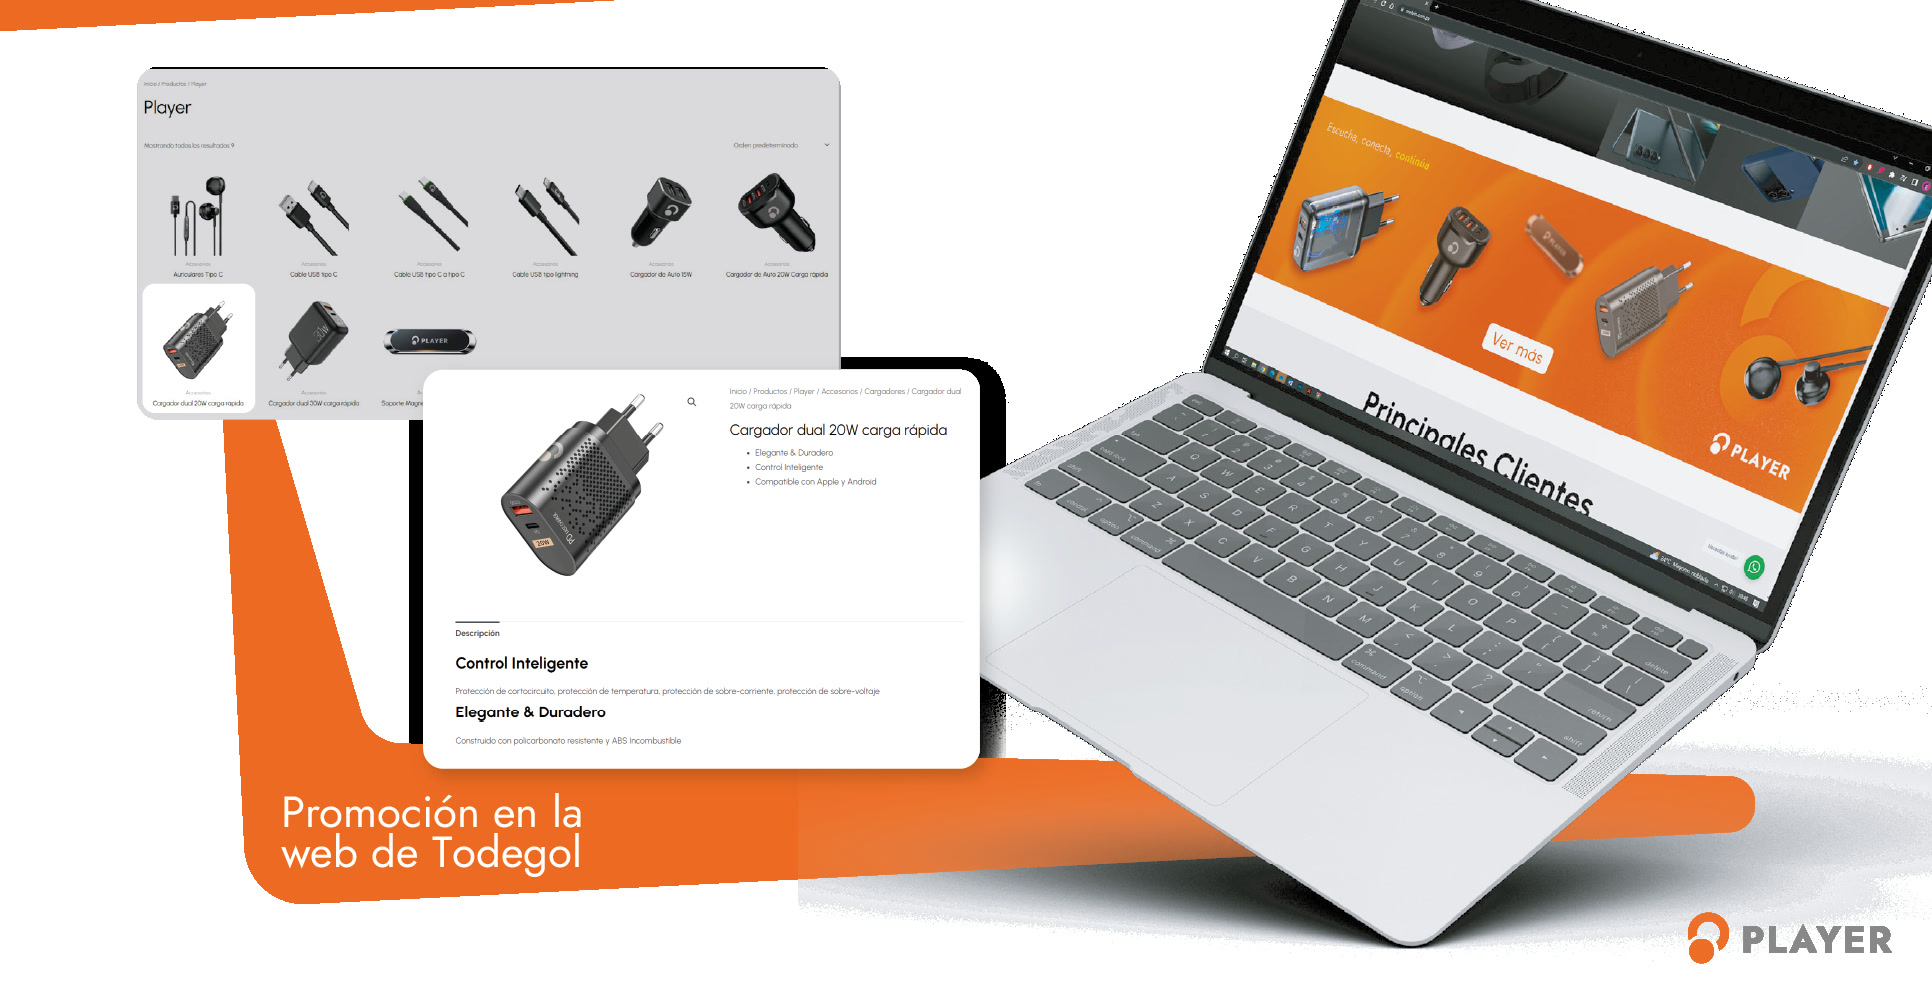
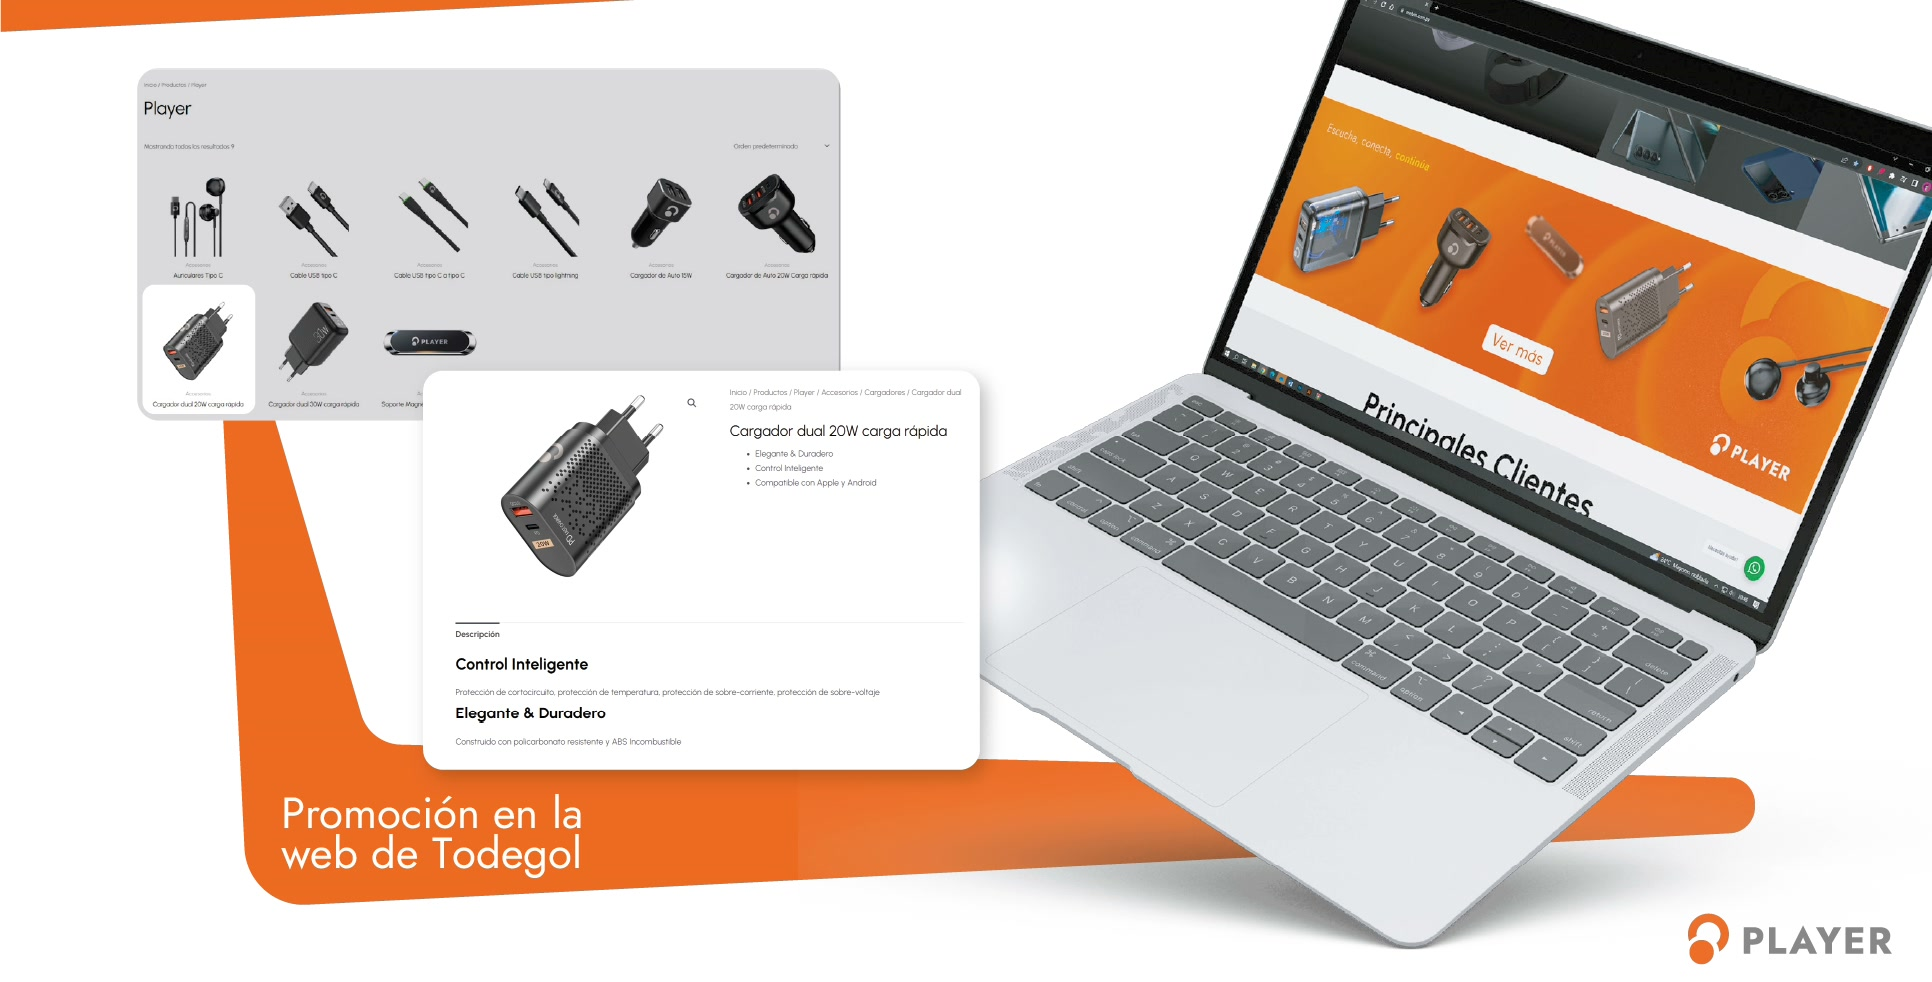
v113: láminas de Player sin fondos negros, feeds más grandes, animaciones de Todegol en Motion, montajes de web anchos, concept art en Jasypa y tapas de cómic alineadas

diff --git a/preview/casos/todegol.html b/preview/casos/todegol.html
@@ -15,8 +15,8 @@
   <link rel="preconnect" href="https://fonts.googleapis.com">
   <link rel="preconnect" href="https://fonts.gstatic.com" crossorigin>
   <link href="https://fonts.googleapis.com/css2?family=DM+Mono:wght@400;500&family=Space+Grotesk:wght@400;500;600;700&display=swap" rel="stylesheet">
-  <link rel="stylesheet" href="case.css?v=20261105-111">
-  <script src="case.js?v=20261105-111" defer></script>
+  <link rel="stylesheet" href="case.css?v=20261105-113">
+  <script src="case.js?v=20261105-113" defer></script>
 </head>
 <body>
   <a class="skip-link" href="#caso">Saltar al caso</a>
@@ -92,10 +92,10 @@
       <p class="cs-gridnote">6 de los 19 stickers 3D de Melvi</p>
     </section>
 
-    <section class="cs-section">
+    <section class="cs-section cs-dark" id="motion">
       <div class="cs-cols">
-        <div><p class="cs-label">Motion · Fechas especiales</p><h2>Animación para redes</h2></div>
-        <div><p class="cs-text">Animaciones verticales para redes por el Día de la Amistad, el Día de la Madre y el Día de la Primavera y la Juventud.</p></div>
+        <div><p class="cs-label">Motion · Fechas especiales</p><h2>Animación cuadro por cuadro</h2></div>
+        <div><p class="cs-text">Animación cuadro por cuadro, en vertical, para las fechas especiales de la marca: Día de la Amistad, Día de la Madre y Día de la Primavera y la&nbsp;Juventud.</p></div>
       </div>
       <div class="cs-motion3">
         <figure style="--ar:.71"><video data-loop src="../assets/video/todegol_amistad.mp4" poster="../assets/video/todegol_amistad_poster.jpg" muted loop playsinline preload="none" aria-label="Animación del Día de la Amistad para Todegol"></video><figcaption>Día de la Amistad</figcaption></figure>
@@ -127,14 +127,14 @@
 
     <section class="cs-section">
       <div class="cs-cols">
-        <div><p class="cs-label">Campañas y web</p><h2>Del feed a todegol.com</h2></div>
+        <div><p class="cs-label">Campañas y web</p><h2>Del Día del Padre a todegol.com</h2></div>
         <div><p class="cs-text">También trabajé en la campaña del Día del Padre, con key visual e ilustraciones de personajes, el catálogo general y el sitio todegol.com. Diseñé la web desde las primeras maquetas en Illustrator y Figma hasta su implementación en WordPress. Además, preparé una propuesta de exhibidor multimarca en 3D y banners para la web entre 2023 y 2025.</p><p class="cs-text"><a class="cs-inline" href="https://todegol.com" target="_blank" rel="noreferrer">Ver todegol.com ↗</a></p></div>
       </div>
       <div class="cs-grid row">
         <figure style="--a:1"><img src="../assets/casos/todegol/padre.jpg" alt="KV de Día del Padre" loading="lazy" width="982" height="982"><figcaption>Día del Padre · KV e ilustraciones</figcaption></figure>
         <figure class="bare" style="--a:1.5"><img src="../assets/casos/todegol/catalogo.webp" alt="Catálogo general de Todegol" loading="lazy" width="1080" height="720"><figcaption>Catálogo general</figcaption></figure>
       </div>
-      <figure class="cs-mont"><img src="../assets/casos/todegol/web/montaje.webp" alt="Montaje de todegol.com con los banners de Televisores, Soundcore, Anker, Eufy, Lensun y Player" loading="lazy" width="1600" height="1580"></figure>
+      <figure class="cs-mont"><img src="../assets/casos/todegol/web/montaje-ancho.jpg" alt="Montaje de todegol.com: la página de inicio con la serie S24 y los banners de Televisores, Soundcore, Anker, Eufy, Lensun y Player" loading="lazy" width="2400" height="1000"></figure>
     </section>
 
     <section class="cs-section cs-result">

diff --git a/preview/index.html b/preview/index.html
@@ -55,9 +55,9 @@
   <link rel="preconnect" href="https://fonts.googleapis.com">
   <link rel="preconnect" href="https://fonts.gstatic.com" crossorigin>
   <link href="https://fonts.googleapis.com/css2?family=DM+Mono:wght@400;500&family=Space+Grotesk:wght@400;500;600;700&display=swap" rel="stylesheet">
-  <link rel="stylesheet" href="styles.css?v=20261105-111">
-  <script src="script.js?v=20261105-111" defer></script>
-  <script src="personaje.js?v=20261105-111" defer></script>
+  <link rel="stylesheet" href="styles.css?v=20261105-113">
+  <script src="script.js?v=20261105-113" defer></script>
+  <script src="personaje.js?v=20261105-113" defer></script>
 </head>
 <body>
   <canvas class="fluid-cursor" id="fluid-cursor" aria-hidden="true"></canvas>
@@ -220,6 +220,7 @@
           <div class="discipline-projects">
             <a href="casos/etidol.html"><span>01</span> Etidol · Dolores del hincha <b>↗</b></a>
             <a href="casos/atlas.html"><span>02</span> Banco Atlas · Día del Niño <b>↗</b></a>
+            <a href="casos/todegol.html#motion"><span>03</span> Todegol · Animación para redes <b>↗</b></a>
           </div>
           <a class="watch-link" href="#motion-projects">VER PROYECTOS <span>↘</span></a>
           <a class="watch-link" href="#reel">VER EL REEL <span>↘</span></a>
@@ -234,6 +235,14 @@
         <article class="project-item" id="atlas1" style="--ar:9/16">
           <div class="project-visual has-img visual-atlas"><span class="visual-overline">BANCO ATLAS</span><strong>DÍA<br>DEL NIÑO</strong><span class="visual-foot">ILUSTRACIÓN Y ANIMACIÓN A MANO / 2026</span><i></i><video class="project-img" data-loop src="assets/video/atlas_loop.mp4" poster="assets/work/atlas.jpg" muted loop playsinline preload="none" aria-label="Fotograma de la animación del Día del Niño de Banco Atlas"></video></div>
           <div class="project-caption"><div><small>02 / ILUSTRACIÓN Y ANIMACIÓN · 2026</small><h4>Banco Atlas · Día del Niño</h4><p>Animación dibujada a mano, cuadro por cuadro.</p></div><a class="project-link" href="casos/atlas.html" aria-label="Ver el caso Banco Atlas · Día del Niño">↗</a></div>
+        </article>
+        <article class="project-item project-item-wide" id="todegol-motion">
+          <div class="motion-trio">
+            <video data-loop src="assets/video/todegol_amistad.mp4" poster="assets/video/todegol_amistad_poster.jpg" muted loop playsinline preload="none" aria-label="Animación del Día de la Amistad para Todegol"></video>
+            <video data-loop src="assets/video/todegol_madre.mp4" poster="assets/video/todegol_madre_poster.jpg" muted loop playsinline preload="none" aria-label="Animación del Día de la Madre para Todegol"></video>
+            <video data-loop src="assets/video/todegol_primavera.mp4" poster="assets/video/todegol_primavera_poster.jpg" muted loop playsinline preload="none" aria-label="Animación del Día de la Primavera y la Juventud para Todegol"></video>
+          </div>
+          <div class="project-caption"><div><small>03 / ANIMACIÓN CUADRO POR CUADRO · 2022—2025</small><h4>Todegol · Animación para redes</h4><p>Piezas verticales para fechas especiales: Amistad, Madre y Primavera.</p></div><a class="project-link" href="casos/todegol.html#motion" aria-label="Ver las animaciones de Todegol">↗</a></div>
         </article>
       </div>
       <figure class="motion-reel" id="reel">

diff --git a/preview/casos/player.html b/preview/casos/player.html
@@ -15,8 +15,8 @@
   <link rel="preconnect" href="https://fonts.googleapis.com">
   <link rel="preconnect" href="https://fonts.gstatic.com" crossorigin>
   <link href="https://fonts.googleapis.com/css2?family=DM+Mono:wght@400;500&family=Space+Grotesk:wght@400;500;600;700&display=swap" rel="stylesheet">
-  <link rel="stylesheet" href="case.css?v=20261105-111">
-  <script src="case.js?v=20261105-111" defer></script>
+  <link rel="stylesheet" href="case.css?v=20261105-113">
+  <script src="case.js?v=20261105-113" defer></script>
 </head>
 <body>
   <a class="skip-link" href="#caso">Saltar al caso</a>
@@ -40,7 +40,7 @@
     </section>
 
     <div class="cs-feature">
-      <img src="../assets/casos/player/pack.jpg" alt="Packaging de la línea Player" width="1400" height="833">
+      <img src="../assets/casos/player/pack.jpg" alt="Packaging de la línea Player" width="1920" height="1143">
     </div>
 
     <section class="cs-section">
@@ -84,12 +84,12 @@
 
     <section class="cs-section">
       <div class="cs-cols">
-        <div><p class="cs-label">Punto de venta y digital</p><h2>De la góndola al feed</h2></div>
-        <div><p class="cs-text">Exhibidores para puntos de venta, el feed de redes y la promoción en la web de Todegol.</p></div>
+        <div><p class="cs-label">Punto de venta y digital</p><h2>De la góndola a la web</h2></div>
+        <div><p class="cs-text">Exhibidores para puntos de venta y la promoción de la línea en la web de&nbsp;Todegol.</p></div>
       </div>
       <div class="cs-grid">
-        <figure class="s12"><img src="../assets/casos/player/exhibidor-limpio.jpg" alt="Exhibidores de Player para puntos de venta" loading="lazy" width="1932" height="983"><figcaption>Exhibidores para puntos de venta</figcaption></figure>
-        <figure class="s12"><img src="../assets/casos/player/web-limpio.jpg" alt="Promoción de Player en la web de Todegol" loading="lazy" width="1932" height="983"><figcaption>Promoción en la web de Todegol</figcaption></figure>
+        <figure><img src="../assets/casos/player/exhibidor-limpio.jpg" alt="Exhibidores de Player para puntos de venta" loading="lazy" width="1932" height="983"><figcaption>Exhibidores para puntos de venta</figcaption></figure>
+        <figure><img src="../assets/casos/player/web-limpio.jpg" alt="Promoción de Player en la web de Todegol" loading="lazy" width="1932" height="983"><figcaption>Promoción en la web de Todegol</figcaption></figure>
       </div>
     </section>
 

diff --git a/preview/casos/jasypa.html b/preview/casos/jasypa.html
@@ -15,9 +15,9 @@
   <link rel="preconnect" href="https://fonts.googleapis.com">
   <link rel="preconnect" href="https://fonts.gstatic.com" crossorigin>
   <link href="https://fonts.googleapis.com/css2?family=DM+Mono:wght@400;500&family=Space+Grotesk:wght@400;500;600;700&display=swap" rel="stylesheet">
-  <link rel="stylesheet" href="case.css?v=20261105-111">
-  <script src="case.js?v=20261105-111" defer></script>
-  <script src="comic.js?v=20261105-111" defer></script>
+  <link rel="stylesheet" href="case.css?v=20261105-113">
+  <script src="case.js?v=20261105-113" defer></script>
+  <script src="comic.js?v=20261105-113" defer></script>
 </head>
 <body>
   <a class="skip-link" href="#caso">Saltar al caso</a>
@@ -68,7 +68,7 @@
         <div><p class="cs-text">Empecé con los bocetos de los personajes y el storyboard de cada escena. Después llevé los dibujos a las viñetas finales.</p></div>
       </div>
       <div class="cs-grid row">
-        <figure style="--a:.575"><img class="ln" src="../assets/casos/jasypa/storyboard-boceto.webp" alt="Storyboard a lápiz de una escena de Jasypa, con anotación de plano detalle" loading="lazy" width="828" height="1440"><figcaption>Storyboard de la&nbsp;escena</figcaption></figure>
+        <figure style="--a:.718"><img class="ln" src="../assets/casos/jasypa/protagonista-boceto.webp" alt="Concept art a lápiz de la protagonista de Jasypa: una mujer con anteojos, remera y jeans rotos, con una pala y unas flechas" loading="lazy" width="873" height="1216"><figcaption>Concept art de la&nbsp;protagonista</figcaption></figure>
         <figure style="--a:.718"><img src="../assets/casos/jasypa/boceto.jpg" alt="Boceto a lápiz del personaje" loading="lazy" width="933" height="1300"><figcaption>Boceto de personaje, 2021</figcaption></figure>
         <figure style="--a:.8"><img src="../assets/casos/jasypa/p07.jpg" alt="Viñeta de Jasypa" loading="lazy" width="800" height="1000"><figcaption>Viñeta</figcaption></figure>
       </div>

diff --git a/preview/casos/case.css b/preview/casos/case.css
@@ -237,3 +237,21 @@ p,li,figcaption,dd,dt,h2,h3{text-wrap:pretty}
 @media(max-width:860px){.cs-contact{grid-template-columns:1fr}.cs-contact-links{justify-content:flex-start}}
 .mail-toast{position:fixed;left:50%;bottom:24px;transform:translate(-50%,20px);background:var(--plum);color:var(--paper);border:1px solid var(--acid);padding:12px 18px;border-radius:999px;font:500 13px var(--mono);opacity:0;pointer-events:none;transition:opacity .25s,transform .25s;z-index:10000;max-width:calc(100vw - 32px)}
 .mail-toast.is-on{opacity:1;transform:translate(-50%,0)}
+/* v112 — feeds más grandes, animaciones destacadas en banda oscura y montajes anchos */
+.cs-feedmini{max-width:none;grid-template-columns:repeat(5,minmax(0,1fr));gap:clamp(10px,1.4vw,20px)}
+.cs-feed12{max-width:none;grid-template-columns:repeat(6,minmax(0,1fr))}
+@media(max-width:700px){.cs-feedmini,.cs-feed12{grid-template-columns:repeat(2,minmax(0,1fr))}}
+.cs-dark{background:var(--plum);color:var(--paper);margin-top:clamp(48px,6vw,96px);padding-top:clamp(56px,7vw,112px);padding-bottom:clamp(56px,7vw,112px)}
+.cs-dark .cs-label{color:#84ff00}
+.cs-dark .cs-text{color:rgba(244,242,237,.82)}
+.cs-dark figcaption{color:#a9a4c9}
+.cs-dark .cs-motion3 video{background:rgba(255,255,255,.06)}
+.cs-motion3{max-width:none;gap:clamp(14px,3vw,48px);justify-content:center}
+.cs-motion3 figure{flex:var(--ar,.5625) 1 0}
+.cs-mont{max-width:none}
+/* v112 — la tapa clicable ocupa todo el ancho de su figura (un botón en bloque se achica al contenido) */
+.cs-book{width:100%}
+.cs-grid figure.crop45 [data-comic="1pct"] img{object-position:50% 100%}
+.cs-feed12{grid-template-columns:repeat(4,minmax(0,1fr))}
+@media(max-width:900px){.cs-feed12{grid-template-columns:repeat(3,minmax(0,1fr))}}
+@media(max-width:700px){.cs-feedmini,.cs-feed12{grid-template-columns:repeat(2,minmax(0,1fr))}}

diff --git a/preview/casos/branding.html b/preview/casos/branding.html
@@ -15,8 +15,8 @@
   <link rel="preconnect" href="https://fonts.googleapis.com">
   <link rel="preconnect" href="https://fonts.gstatic.com" crossorigin>
   <link href="https://fonts.googleapis.com/css2?family=DM+Mono:wght@400;500&family=Space+Grotesk:wght@400;500;600;700&display=swap" rel="stylesheet">
-  <link rel="stylesheet" href="case.css?v=20261105-111">
-  <script src="case.js?v=20261105-111" defer></script>
+  <link rel="stylesheet" href="case.css?v=20261105-113">
+  <script src="case.js?v=20261105-113" defer></script>
 </head>
 <body>
   <a class="skip-link" href="#caso">Saltar al caso</a>
@@ -71,8 +71,7 @@
         <div><p class="cs-text">Diseñé dos sitios web para llevar la identidad de cada marca al entorno digital.</p></div>
       </div>
       <div class="cs-grid">
-        <figure class="s6 eq"><img src="../assets/casos/branding/dipro-web.webp" alt="Sitio de Dipro en una laptop" loading="lazy" width="1400" height="1050"><figcaption>Dipro · cables eléctricos</figcaption></figure>
-        <figure class="s6 eq"><img src="../assets/casos/branding/todegol-web.webp" alt="Sitio de Todegol en una laptop" loading="lazy" width="782" height="876"><figcaption>Todegol · todegol.com</figcaption></figure>
+        <figure class="s12 bare"><img class="ln" src="../assets/casos/branding/web-montaje.jpg" alt="Montaje: laptop con el sitio de Dipro delante de la página de inicio de todegol.com" loading="lazy" width="2400" height="1000"><figcaption>Dipro en la laptop · todegol.com</figcaption></figure>
       </div>
     </section>
 

diff --git a/preview/styles.css b/preview/styles.css
@@ -1401,3 +1401,12 @@ p,li,figcaption,dd,dt,h2,h3{text-wrap:pretty}
 .works-heading{min-height:0!important}
 .discipline{margin-top:clamp(40px,4vw,64px)!important}
 .discipline-main,.discipline-illustration .discipline-main{min-height:clamp(150px,16vw,240px)!important}
+
+/* v112 — Motion: animaciones de Todegol en una fila propia */
+.project-item-wide{grid-column:1/-1}
+.motion-trio{display:flex;gap:clamp(12px,2vw,28px);justify-content:center;align-items:flex-start;background:var(--plum);border-radius:18px;padding:clamp(18px,3vw,40px)}
+.motion-trio video{flex:1 1 0;min-width:0;max-width:300px;aspect-ratio:9/16;object-fit:cover;border-radius:12px;background:rgba(255,255,255,.06)}
+@media(max-width:700px){.motion-trio{gap:8px;padding:14px}}
+#motion-projects{flex-wrap:wrap}
+#motion-projects .project-item-wide{flex:0 0 100%!important;width:100%}
+.motion-trio video{max-width:340px}

diff --git a/preview/casos/ilustracion.html b/preview/casos/ilustracion.html
@@ -15,9 +15,9 @@
   <link rel="preconnect" href="https://fonts.googleapis.com">
   <link rel="preconnect" href="https://fonts.gstatic.com" crossorigin>
   <link href="https://fonts.googleapis.com/css2?family=DM+Mono:wght@400;500&family=Space+Grotesk:wght@400;500;600;700&display=swap" rel="stylesheet">
-  <link rel="stylesheet" href="case.css?v=20261105-111">
-  <script src="case.js?v=20261105-111" defer></script>
-  <script src="comic.js?v=20261105-111" defer></script>
+  <link rel="stylesheet" href="case.css?v=20261105-113">
+  <script src="case.js?v=20261105-113" defer></script>
+  <script src="comic.js?v=20261105-113" defer></script>
 </head>
 <body>
   <a class="skip-link" href="#caso">Saltar al caso</a>

diff --git a/preview/casos/atlas.html b/preview/casos/atlas.html
@@ -15,8 +15,8 @@
   <link rel="preconnect" href="https://fonts.googleapis.com">
   <link rel="preconnect" href="https://fonts.gstatic.com" crossorigin>
   <link href="https://fonts.googleapis.com/css2?family=DM+Mono:wght@400;500&family=Space+Grotesk:wght@400;500;600;700&display=swap" rel="stylesheet">
-  <link rel="stylesheet" href="case.css?v=20261105-111">
-  <script src="case.js?v=20261105-111" defer></script>
+  <link rel="stylesheet" href="case.css?v=20261105-113">
+  <script src="case.js?v=20261105-113" defer></script>
 </head>
 <body>
   <a class="skip-link" href="#caso">Saltar al caso</a>

diff --git a/preview/casos/etidol.html b/preview/casos/etidol.html
@@ -15,8 +15,8 @@
   <link rel="preconnect" href="https://fonts.googleapis.com">
   <link rel="preconnect" href="https://fonts.gstatic.com" crossorigin>
   <link href="https://fonts.googleapis.com/css2?family=DM+Mono:wght@400;500&family=Space+Grotesk:wght@400;500;600;700&display=swap" rel="stylesheet">
-  <link rel="stylesheet" href="case.css?v=20261105-111">
-  <script src="case.js?v=20261105-111" defer></script>
+  <link rel="stylesheet" href="case.css?v=20261105-113">
+  <script src="case.js?v=20261105-113" defer></script>
 </head>
 <body>
   <a class="skip-link" href="#caso">Saltar al caso</a>

diff --git a/preview/casos/mariano.html b/preview/casos/mariano.html
@@ -15,8 +15,8 @@
   <link rel="preconnect" href="https://fonts.googleapis.com">
   <link rel="preconnect" href="https://fonts.gstatic.com" crossorigin>
   <link href="https://fonts.googleapis.com/css2?family=DM+Mono:wght@400;500&family=Space+Grotesk:wght@400;500;600;700&display=swap" rel="stylesheet">
-  <link rel="stylesheet" href="case.css?v=20261105-111">
-  <script src="case.js?v=20261105-111" defer></script>
+  <link rel="stylesheet" href="case.css?v=20261105-113">
+  <script src="case.js?v=20261105-113" defer></script>
 </head>
 <body>
   <a class="skip-link" href="#caso">Saltar al caso</a>
